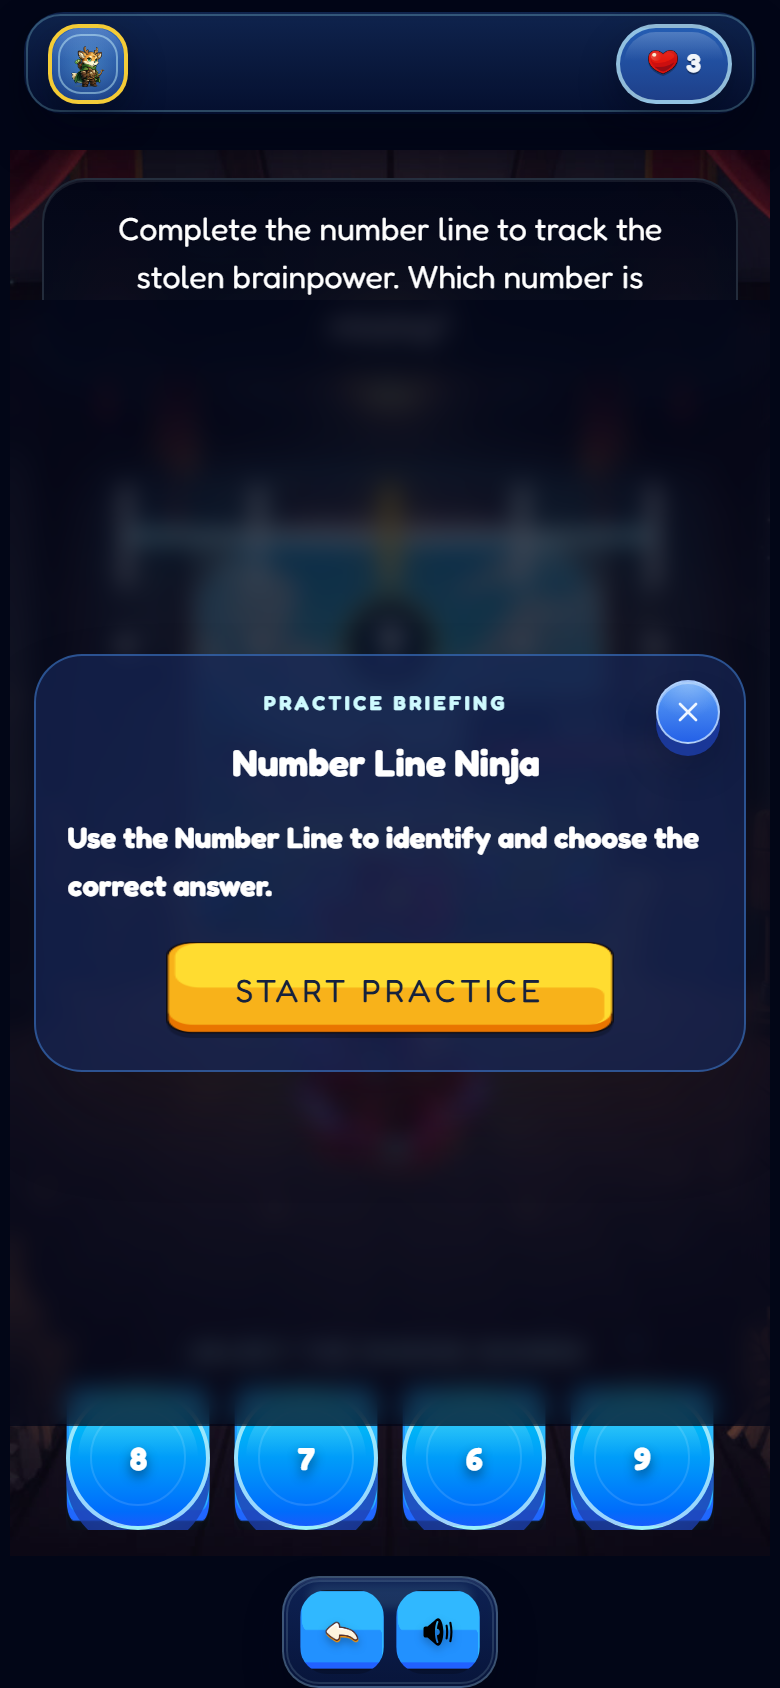
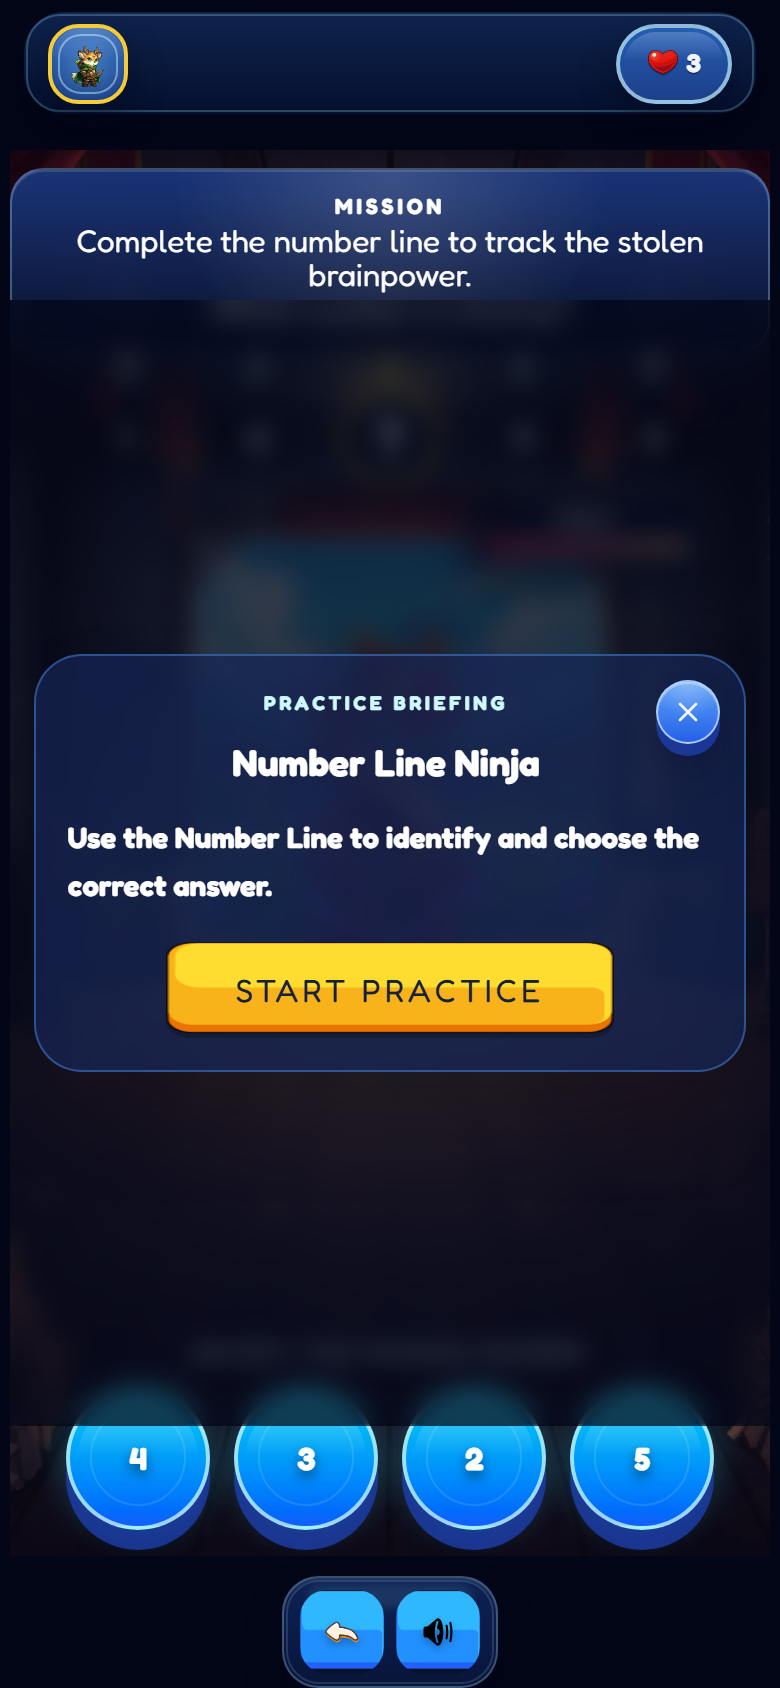
up

diff --git a/src/games/NumberLineNinjaGame.tsx b/src/games/NumberLineNinjaGame.tsx
@@ -544,7 +544,7 @@ const NumberLineNinjaGame: React.FC<NumberLineNinjaGameShellProps> = ({
           <motion.div
             animate={lineShake ? { x: [0, -10, 10, -8, 8, -4, 4, 0] } : { x: 0 }}
             transition={{ duration: 0.34, ease: 'easeInOut' }}
-            className="relative flex h-[26%] min-h-[154px] w-full max-w-[680px] items-center justify-center"
+            className="relative mt-2.5 flex h-[26%] min-h-[154px] w-full max-w-[680px] items-center justify-center"
           >
             <motion.div
               animate={{ opacity: [0.26, 0.54, 0.26], scale: [0.985, 1.025, 0.985] }}
@@ -628,25 +628,12 @@ const NumberLineNinjaGame: React.FC<NumberLineNinjaGameShellProps> = ({
           </motion.div>
 
           <div className="relative mt-1 flex h-[24%] min-h-[150px] w-full max-w-[520px] shrink-0 items-end justify-center">
-            <div className="absolute right-4 top-0 z-20 w-[34%] min-w-[120px] rounded-lg border border-amber-200/35 bg-slate-900/76 p-1.5 shadow-[0_10px_20px_rgba(2,6,23,0.46)]">
-              <div className="mb-1 text-center text-[8px] font-black uppercase tracking-[0.12em] text-amber-200 md:text-[9px]">
-                Enemy
-              </div>
-              <div className="relative h-2 overflow-hidden rounded-full border border-slate-700/80 bg-slate-950/80">
-                <motion.div
-                  className="absolute inset-y-0 left-0 rounded-full bg-gradient-to-r from-rose-500 via-rose-400 to-orange-300 shadow-[0_0_12px_rgba(251,113,133,0.75)]"
-                  animate={{ width: `${monsterHealthPct}%` }}
-                  transition={{ type: 'spring', stiffness: 210, damping: 26 }}
-                />
-                <div className="pointer-events-none absolute inset-0 bg-[linear-gradient(to_right,rgba(255,255,255,0.14)_1px,transparent_1px)] bg-[length:10%_100%]" />
-              </div>
-            </div>
-
             <div
-              className="pointer-events-none absolute inset-x-0 mx-auto w-[58%] max-w-[280px]"
-              style={{ bottom: '-105px' }}
+              className="pointer-events-none absolute inset-x-0 mx-auto flex w-[92%] max-w-[520px] flex-wrap items-center justify-center gap-2"
+              style={{ bottom: '-120px' }}
             >
-              <div className="relative">
+              <div className="relative w-[58%] max-w-[280px]">
+                <div className="relative">
                 <AnimatePresence>
                   {monsterSpeech ? (
                     <motion.div
@@ -792,6 +779,21 @@ const NumberLineNinjaGame: React.FC<NumberLineNinjaGameShellProps> = ({
                     ) : null}
                   </AnimatePresence>
                 </motion.div>
+                </div>
+              </div>
+
+              <div className="w-[34%] min-w-[104px] max-w-[168px] rounded-lg border border-amber-200/35 bg-slate-900/76 p-1.5 shadow-[0_10px_20px_rgba(2,6,23,0.46)]">
+                <div className="mb-1 text-center text-[8px] font-black uppercase tracking-[0.12em] text-amber-200 md:text-[9px]">
+                  Enemy
+                </div>
+                <div className="relative h-2 overflow-hidden rounded-full border border-slate-700/80 bg-slate-950/80">
+                  <motion.div
+                    className="absolute inset-y-0 left-0 rounded-full bg-gradient-to-r from-rose-500 via-rose-400 to-orange-300 shadow-[0_0_12px_rgba(251,113,133,0.75)]"
+                    animate={{ width: `${monsterHealthPct}%` }}
+                    transition={{ type: 'spring', stiffness: 210, damping: 26 }}
+                  />
+                  <div className="pointer-events-none absolute inset-0 bg-[linear-gradient(to_right,rgba(255,255,255,0.14)_1px,transparent_1px)] bg-[length:10%_100%]" />
+                </div>
               </div>
             </div>
           </div>
